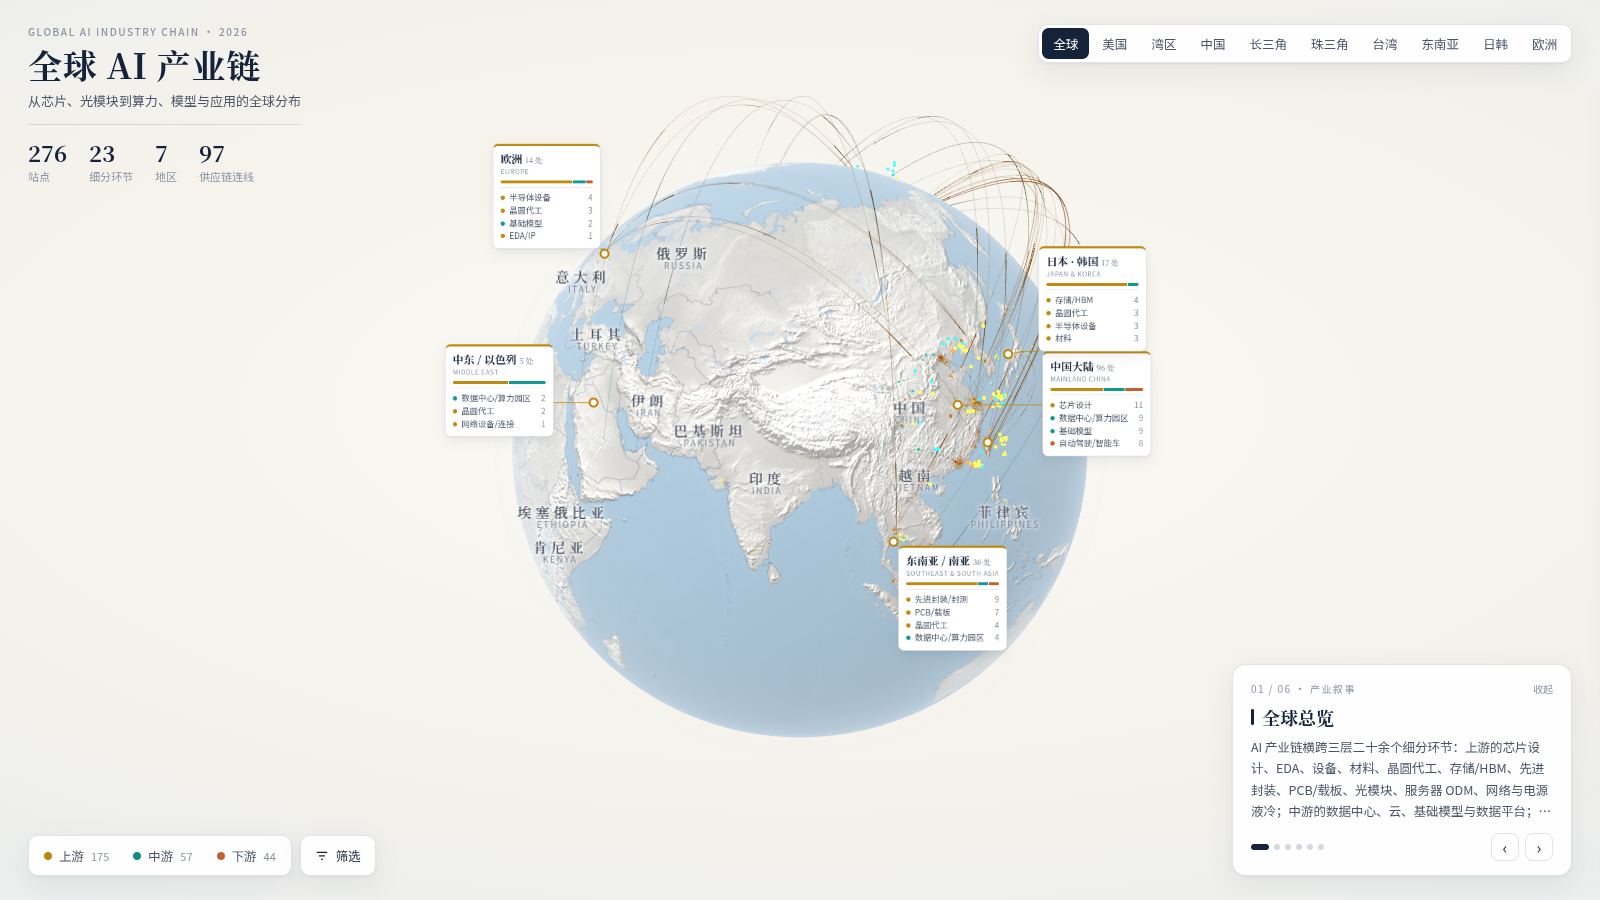
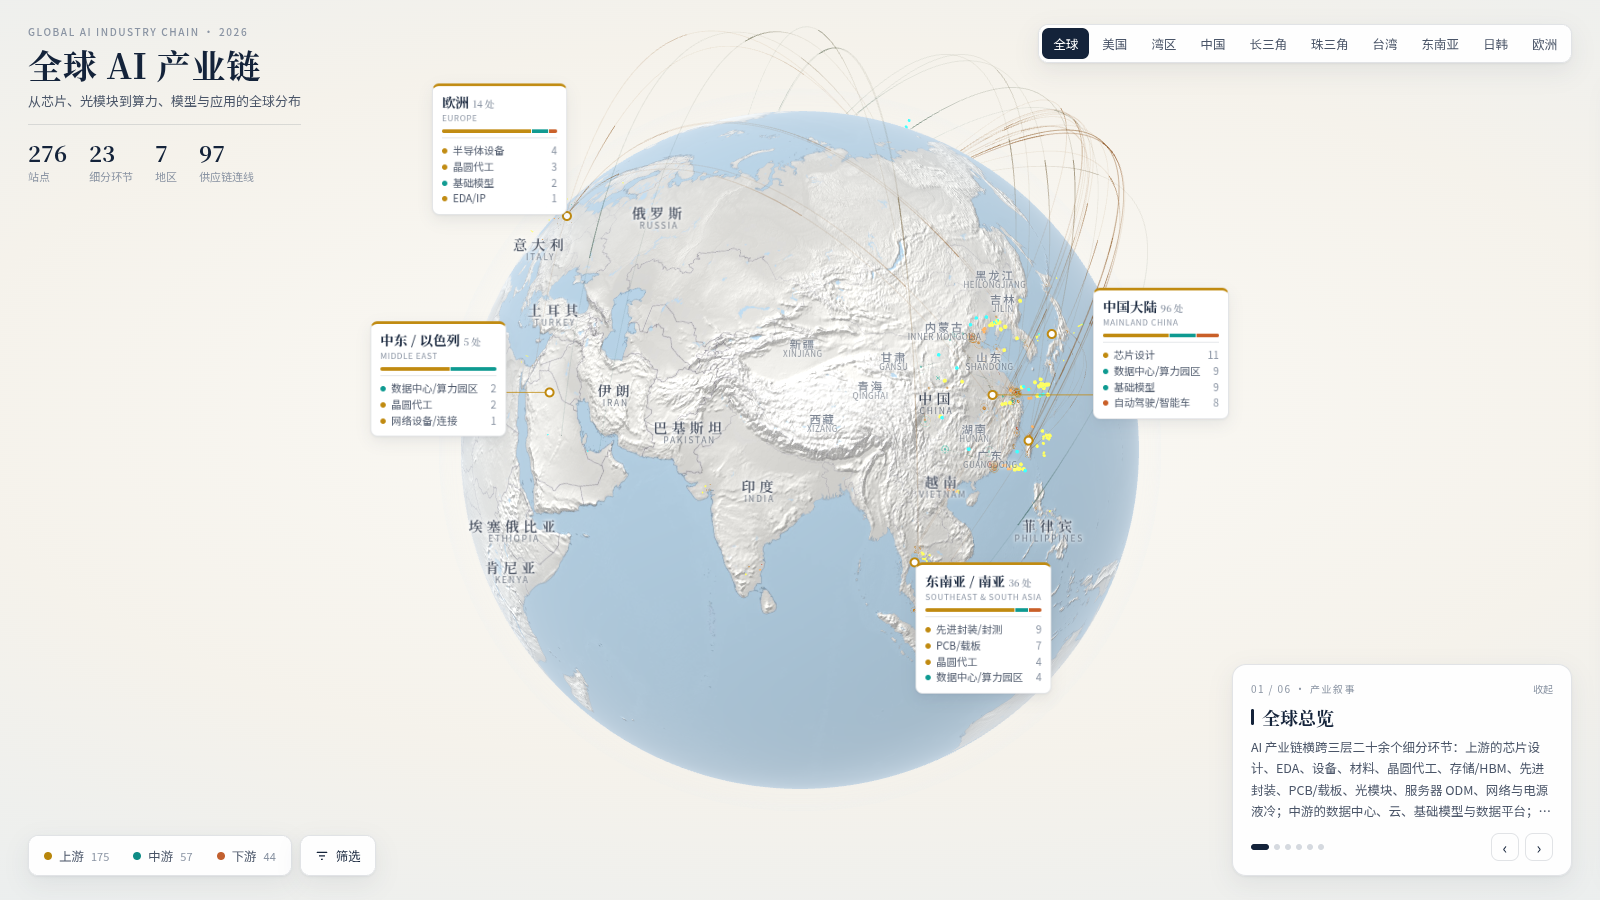
UI 重设计定稿：编辑式制图风格、地区聚合卡/城市卡分层、叙事步进器、筛选浮层、移动端适配、细弧线；更新截图

Changed region(s): [[0.2188, 0.0933, 0.75, 0.9022]]

diff --git a/index.html b/index.html
@@ -283,15 +283,15 @@ document.getElementById('segClr').onclick=()=>{fSeg.clear();document.querySelect
 const rotBtn=document.getElementById('rotBtn');rotBtn.onclick=()=>{if(!controls.autoRotate&&controls.target.lengthSq()>0){flyTo('globe');setTimeout(()=>{controls.autoRotate=true;rotBtn.classList.add('on');},2300);return;}controls.autoRotate=!controls.autoRotate;rotBtn.classList.toggle('on',controls.autoRotate);};
 const arcBtn=document.getElementById('arcBtn');arcBtn.onclick=()=>{showArcs=!showArcs;arcBtn.classList.toggle('on',showArcs);};
 
-const PRESETS={globe:[28,85,4.2],us:[38.5,-97,2.7],bay:[37.5,-122.12,.03,46],ne:[41.4,-74.2,.5,42],cn:[29.5,113.5,.95,38],yrd:[30.6,120.3,.16,45],prd:[22.6,113.9,.09,45],tw:[23.6,120.8,.13,40],sea:[8,104,.75,30],jk:[34.5,133,.42,38],eu:[49,7,.55,38],me:[27,47,.9,30]};
+const PRESETS={globe:[28,85,3.6],us:[38.5,-97,2.7],bay:[37.5,-122.12,.03,46],ne:[41.4,-74.2,.5,42],cn:[29.5,113.5,.95,38],yrd:[30.6,120.3,.16,45],prd:[22.6,113.9,.09,45],tw:[23.6,120.8,.13,40],sea:[8,104,.75,30],jk:[34.5,133,.42,38],eu:[49,7,.55,38],me:[27,47,.9,30]};
 let fly=null;
-function flyTo(k,latlon){if(!latlon)document.querySelectorAll('#flyBtns button').forEach(x=>x.classList.toggle('on',x.dataset.f===k));const [lat,lon,d,tilt=0]=latlon||PRESETS[k];const from=camera.position.clone();let to,tgt;
+function flyTo(k,latlon){if(!latlon)document.querySelectorAll('#flyBtns button').forEach(x=>x.classList.toggle('on',x.dataset.f===k));let [lat,lon,d,tilt=0]=latlon||PRESETS[k];if(innerWidth<innerHeight)d=tilt?d*1.5:1+(d-1)*1.9;const from=camera.position.clone();let to,tgt;
  if(tilt){tgt=ll2v(lat,lon,R);const n=tgt.clone().normalize();const east=new THREE.Vector3(0,1,0).cross(n).normalize();const north=n.clone().cross(east);
   const tr=tilt*Math.PI/180;to=tgt.clone().addScaledVector(n,Math.cos(tr)*d).addScaledVector(north,-Math.sin(tr)*d);}
  else{to=ll2v(lat,lon,d);tgt=new THREE.Vector3();}
  controls.minDistance=.02;controls.maxDistance=12;
  fly={from,to,t:0,dur:2.2,tf:controls.target.clone(),tt:tgt,surf:!!tilt};controls.autoRotate=false;rotBtn.classList.remove('on');}
-document.querySelectorAll('#flyBtns button').forEach(b=>b.onclick=()=>{document.querySelectorAll('#flyBtns button').forEach(x=>x.classList.remove('on'));b.classList.add('on');flyTo(b.dataset.f);});
+document.querySelectorAll('#flyBtns button').forEach(b=>b.onclick=()=>{document.querySelectorAll('#flyBtns button').forEach(x=>x.classList.remove('on'));b.classList.add('on');flyTo(b.dataset.f);const k=story.findIndex(x=>x[3]===b.dataset.f);if(k>=0){stepI=k;storyEl.classList.remove('mini');renderStep(0);}else{storyEl.classList.add('mini');renderStep(0);storyEl.querySelector('h2').innerHTML=`<i style="background:var(--ink)"></i>${b.textContent} · 视角`;storyEl.querySelector('.st span').textContent='当前视角';}});//});
 const ease=t=>t<.5?4*t*t*t:1-Math.pow(-2*t+2,3)/2;
 function slerpCam(f,t){const a=f.from.length(),b=f.to.length();const da=f.from.clone().normalize(),db=f.to.clone().normalize();
  const ang=da.angleTo(db);let dir;if(ang<1e-4)dir=db;else{const s=Math.sin(ang);dir=da.multiplyScalar(Math.sin((1-t)*ang)/s).add(db.multiplyScalar(Math.sin(t*ang)/s));}
@@ -362,7 +362,7 @@ function buildCards(){groups.forEach(g=>{g.vis=g.rg?markers.filter(o=>o.cty===g.
  if(g.rg){const R2=REGEN[g.rg];const sc={};g.vis.forEach(o=>sc[o.seg]=(sc[o.seg]||0)+1);const top=Object.entries(sc).sort((a,b)=>b[1]-a[1]).slice(0,4);
   g.el.innerHTML=`<div class="h">${R2[0]}<small>${g.vis.length} 处</small></div><div class="e">${R2[1]}</div><div class="bar">${['up','mid','down'].map(l=>cnt[l]?`<span style="flex:${cnt[l]};background:${INK[l]}"></span>`:'').join('')}</div><ul>${top.map(([k,n])=>`<li><i style="background:${INK[SEG[k][1]]}"></i>${SEG[k][0]} <span style="color:var(--ink3);margin-left:auto;padding-left:8px">${n}</span></li>`).join('')}</ul>`;}
  else if(g.vis.length===1){const o=g.vis[0];g.el.innerHTML=`<div class="h">${o.cn}</div><div class="e">${o.en}</div><span class="sg" style="background:${ink(o)}">${o.role}</span>`;}
- else{const nm=g.city.replace(/^(加州|华盛顿|得州|纽约州|广东|浙江|安徽|湖北|江苏|四川|台湾|马来西亚|泰国|越南|新加坡|日本|韩国|德国|荷兰|英国|法国|阿联酋)\s*/,'');
+ else{const nm=g.city.split(' ').slice(1).join(' ')||g.city;
   g.el.innerHTML=`<div class="h">${nm}<small>${g.vis.length} 家</small></div><div class="e">${CITY_EN[g.city]||''}</div><ul>${g.vis.slice(0,5).map(li).join('')}${g.vis.length>5?`<li class="more">+ ${g.vis.length-5} 家</li>`:''}</ul>`;}
  g.el.style.transform='none';g.el.style.display='block';g.el.style.visibility='hidden';g.w=g.el.offsetWidth;g.h=g.el.offsetHeight;g.el.style.visibility='';g.el.style.display='none';g.init=false;});}
 const _applyFilter=applyFilter;applyFilter=function(){_applyFilter();buildCards();};
@@ -442,34 +442,35 @@ const sMesh=new THREE.Mesh(sGeo,new THREE.ShaderMaterial({uniforms:bU,transparen
  vertexShader:BV+`varying vec2 vUv;void main(){vUv=uv;float v=gv(gid);vec3 wp=anchor+frame(position,anchor)*min(uScale,mr)*v;gl_Position=projectionMatrix*viewMatrix*vec4(wp,1.);}`,
  fragmentShader:`varying vec2 vUv;void main(){float d=length(vUv);float a=smoothstep(1.,.2,d);vec3 c=mix(vec3(.93,.93,.9),vec3(.45,.5,.58),smoothstep(1.,0.,d)*.6);gl_FragColor=vec4(c,a*.45);}`}));
 sMesh.frustumCulled=false;sMesh.renderOrder=1;bMesh.renderOrder=2;scene.add(sMesh);
-addRegionGroups();
-let bFade=0;
+let bFade=0;addRegionGroups();
 function updateBuildings(){const cd=camera.position.length();const tgt=started&&introT>=1?THREE.MathUtils.smoothstep(3.7-cd,0,.7):0;bFade+=(tgt-bFade)*.12;
  {const h=Math.max(cd-1,.03);bU.uScale.value=THREE.MathUtils.lerp(h<.12?.036:.05,.017,THREE.MathUtils.smoothstep(h,.25,1.5))*h*bFade;}
  groups.forEach((g,i)=>{const t=g.vis.length?1:0;g.bv=(g.bv||0)+(t-(g.bv||0))*.15;bU.uGV.value[i>>2].setComponent(i&3,g.bv);});
  bMesh.visible=sMesh.visible=bFade>.01;return bFade;}
 
 const tmp=new THREE.Vector3(),camDir=new THREE.Vector3();
-function updateCards(){const W=innerWidth,H=innerHeight;const cd=camera.position.length();camDir.copy(camera.position).normalize();
- const sc=THREE.MathUtils.clamp(2.3/cd,.72,1);
+let ZONES=[];function inZone(x,y){return ZONES.some(z=>x>z.left-6&&x<z.right+6&&y>z.top-6&&y<z.bottom+6);}
+function updateCards(){ZONES=['title','flyBtns','dock','story','info','pop'].map(id=>document.getElementById(id)).filter(e=>e&&getComputedStyle(e).opacity>.05&&!(e.id==='info'&&!e.classList.contains('open'))&&!(e.id==='pop'&&!e.classList.contains('open'))).map(e=>e.getBoundingClientRect());const W=innerWidth,H=innerHeight;const cd=camera.position.length();camDir.copy(camera.position).normalize();
+ const sc=THREE.MathUtils.clamp(2.3/cd,.9,1);
  tmp.set(0,0,0).project(camera);const cx=(tmp.x+1)/2*W,cy=(1-tmp.y)/2*H;
  // horizon: point visible if dot(n,camPos) > R
  const act=[];const shown=started&&introT>=1;const wide=cd>3.1;
  groups.forEach(g=>{const f=g.n.dot(camera.position)/R;const face=(f-1)/(cd-1);g.face=face; // 1 at center
   if(!shown||!g.vis.length||face<.06||(!!g.rg)!==wide){g.act=false;return;}
-  tmp.copy(g.pos).project(camera);g.dx=(tmp.x+1)/2*W;g.dy=(1-tmp.y)/2*H;if(g.dx<0||g.dx>W||g.dy<0||g.dy>H){g.act=false;return;}
+  tmp.copy(g.pos).project(camera);g.dx=(tmp.x+1)/2*W;g.dy=(1-tmp.y)/2*H;if(g.dx<0||g.dx>W||g.dy<H*.07||g.dy>H*.96||inZone(g.dx,g.dy)){g.act=false;return;}
   let ox=g.dx-cx,oy=g.dy-cy;const l=Math.hypot(ox,oy)||1;ox/=l;oy/=l;if(l<4){ox=.6;oy=-.8;}
   if(cd<1.6){const k=THREE.MathUtils.smoothstep(1.6-cd,0,.3);const sx=Math.sign(g.dx-W/2)||1;const vy=(g.dy-H/2)/H*.8;let nx=THREE.MathUtils.lerp(ox,sx,k),ny=THREE.MathUtils.lerp(oy,vy,k);const nl=Math.hypot(nx,ny)||1;ox=nx/nl;oy=ny/nl;}
   const L=28+22*sc+(cd<1.6?60:0),w=g.w*sc,h=g.h*sc;g.sw=w;g.sh=h;
   g.tx=g.dx+ox*(L+w/2*Math.abs(ox))-0;g.ty=g.dy+oy*(L+h/2*Math.abs(oy));
   if(!g.init){g.x=g.tx;g.y=g.ty;g.init=true;}g.act=true;act.push(g);});
  act.sort((a,b)=>b.vis.length-a.vis.length||b.face-a.face);
+ {const cap=W<760?5:(cd<1.25?16:11);const keep=act.filter(g=>g.rg||g.vis.length>1||cd<2.0).slice(0,cap);act.forEach(g=>{if(!keep.includes(g))g.act=false;});act.length=0;act.push(...keep);}
  for(let it=0;it<6;it++){
   act.forEach(g=>{g.x+=(g.tx-g.x)*.12;g.y+=(g.ty-g.y)*.12;});
   for(let i=0;i<act.length;i++)for(let j=i+1;j<act.length;j++){const a=act[i],b=act[j];
    const ox=(a.sw+b.sw)/2+6-Math.abs(a.x-b.x),oy=(a.sh+b.sh)/2+5-Math.abs(a.y-b.y);
    if(ox>0&&oy>0){if(ox<oy){const s=(a.x<b.x?-1:1)*ox/2;a.x+=s*.35;b.x-=s*.65;}else{const s=(a.y<b.y?-1:1)*oy/2;a.y+=s*.35;b.y-=s*.65;}}}
-  const xl=8,xr=W-8;act.forEach(g=>{g.x=THREE.MathUtils.clamp(g.x,g.sw/2+xl,xr-g.sw/2);g.y=THREE.MathUtils.clamp(g.y,g.sh/2+6,H-g.sh/2-6);});}
+  const xl=8,xr=W-8;act.forEach(g=>{for(const z of ZONES){const ox=Math.min(g.x+g.sw/2,z.right+8)-Math.max(g.x-g.sw/2,z.left-8),oy=Math.min(g.y+g.sh/2,z.bottom+8)-Math.max(g.y-g.sh/2,z.top-8);if(ox>0&&oy>0){if(ox<oy)g.x+=(g.x<(z.left+z.right)/2?-ox:ox);else g.y+=(g.y<(z.top+z.bottom)/2?-oy:oy);}}g.x=THREE.MathUtils.clamp(g.x,g.sw/2+xl,xr-g.sw/2);g.y=THREE.MathUtils.clamp(g.y,g.sh/2+6,H-g.sh/2-6);});}
  // greedy declutter: drop cards still overlapping a higher-priority one, or with very long leaders
  let nK=0;const placed=['title','flyBtns','dock','story','info'].map(id=>{const e=document.getElementById(id);if(!e||(id==='info'&&!e.classList.contains('open')))return null;const r=e.getBoundingClientRect();return {x:r.left+r.width/2,y:r.top+r.height/2,sw:r.width+40,sh:r.height+32};}).filter(Boolean);act.forEach(g=>{let ok=Math.hypot(g.x-g.dx,g.y-g.dy)<260*sc+g.sw/2;
   if(ok)for(const p of placed){const ox=(p.sw+g.sw)/2-Math.abs(p.x-g.x),oy=(p.sh+g.sh)/2-Math.abs(p.y-g.y);if(ox>2&&oy>2){ok=false;break;}}
@@ -501,7 +502,7 @@ function updatePlaces(cardRects){if(!plMeasured)measurePlaces();const W=innerWid
  places.forEach(p=>{let ok=false,x=0,y=0;
   if(started&&introT>=1&&tierOn[p.tier]&&!(p.tier===0&&p.rank>(cd>3.2?2:4))){const face=(p.n.dot(camera.position)-1)/(cd-1);
    if(face>.12){tmp.copy(p.pos).project(camera);x=(tmp.x+1)/2*W;y=(1-tmp.y)/2*H;
-    if(x>(W>1100?280:0)&&x<(W>1100?W-330:W)&&y>0&&y<H){ok=true;const r={x,y,w:p.w+6,h:p.h+2};
+    if(x>0&&x<W&&y>0&&y<H&&!inZone(x,y)){ok=true;const r={x,y,w:p.w+6,h:p.h+2};
      for(const q of taken){if(Math.abs(q.x-r.x)*2<q.w+r.w&&Math.abs(q.y-r.y)*2<q.h+r.h){ok=false;break;}}
      if(ok)taken.push(r);p.face=face;}}}
   p.op+=((ok?Math.min(1,(p.face-.12)*5):0)-p.op)*.2;
@@ -512,7 +513,7 @@ function updatePlaces(cardRects){if(!plMeasured)measurePlaces();const W=innerWid
 // ================= LOOP =================
 const clock=new THREE.Clock();let introT=0,started=false;
 mgr.onLoad=()=>{document.getElementById('loader').style.opacity=0;setTimeout(()=>document.getElementById('loader').remove(),1300);started=true;document.body.classList.add('show');applyFilter();};
-const introFrom=new THREE.Vector3(0,0,14),introTo=ll2v(32,-60,4.2);
+const introFrom=new THREE.Vector3(0,0,14),introTo=ll2v(32,-60,3.6);
 function tick(){const dt=Math.min(clock.getDelta(),.05);const t=clock.elapsedTime;earthU.uTime.value=t;
  if(started&&introT<1){introT=Math.min(1,introT+dt/3.5);const e=ease(introT);const p=introFrom.clone().lerp(introTo,e);
   p.applyAxisAngle(new THREE.Vector3(0,1,0),(1-e)*2.2);camera.position.copy(p);if(introT>=1){controls.autoRotate=true;}}
@@ -524,11 +525,11 @@ function tick(){const dt=Math.min(clock.getDelta(),.05);const t=clock.elapsedTim
   o.pillar.material.uniforms.uHi.value+=(hi-o.pillar.material.uniforms.uHi.value)*.2;o.ring.material.uniforms.uHi.value=o.pillar.material.uniforms.uHi.value;
   const s=Math.max(o.vis,.0001);o.group.scale.set(s*sc,s*sc,s*(.6+.4*sc));o.group.visible=o.vis>.01;o.pillar.visible=false;o.ring.visible=o.head.visible=bFade<.35;
   o.head.scale.setScalar(.0042*(1+hi*.8));});
- arcs.forEach(a=>{const tg=showArcs&&visible(a.A)&&visible(a.B)&&introT>=1?1:0;a.op+=(tg-a.op)*Math.min(1,dt*3);a.m.uniforms.uOp.value=a.op*THREE.MathUtils.smoothstep(camera.position.length(),1.12,1.6);a.mesh.visible=a.op>.01;});
+ arcs.forEach(a=>{const tg=showArcs&&visible(a.A)&&visible(a.B)&&introT>=1?1:0;a.op+=(tg-a.op)*Math.min(1,dt*3);a.m.uniforms.uOp.value=a.op*(.25+.75*THREE.MathUtils.smoothstep(camera.position.length(),1.3,2.6))*THREE.MathUtils.smoothstep(camera.position.length(),1.08,1.3)*(camera.position.length()>3?.5:.75);a.mesh.visible=a.op>.01;});
  controls.update();{const nr=THREE.MathUtils.clamp((camera.position.length()-1)*.25,.0004,.05);if(Math.abs(nr-camera.near)>1e-5){camera.near=nr;camera.updateProjectionMatrix();}}
  hovered=started&&!fly?pick():null;renderer.domElement.style.cursor=hovered?'pointer':'grab';
  if(hovered){label.style.opacity=1;label.style.left=mx+'px';label.style.top=my+'px';label.innerHTML=`<b style="color:#${hovered.color.getHexString()}">●</b> ${hovered.cn} <span style="opacity:.55">· ${hovered.city}</span>`;}else label.style.opacity=0;
- updateBuildings();updateCards();renderer.render(scene,camera);requestAnimationFrame(tick);}
+ atmo.visible=camera.position.length()>1.2;updateBuildings();updateCards();renderer.render(scene,camera);requestAnimationFrame(tick);}
 tick();
 addEventListener('resize',()=>{camera.aspect=innerWidth/innerHeight;camera.updateProjectionMatrix();renderer.setSize(innerWidth,innerHeight);});
 window.__flyTo=flyTo;window.__setLayer=v=>document.querySelector(`#layerBtns button[data-l="${v}"]`).click();window.__ctl=controls;window.__setCty=v=>document.querySelector(`#ctyBtns button[data-c="${v}"]`).click();
